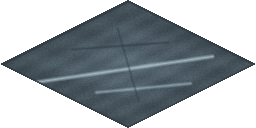
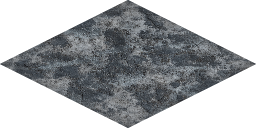
feat: repaint v4 environment tiles

diff --git a/test/v4-assets.test.ts b/test/v4-assets.test.ts
@@ -1,9 +1,20 @@
-import { existsSync, statSync } from 'node:fs';
+import { existsSync, readFileSync, statSync } from 'node:fs';
 import { describe, expect, it } from 'vitest';
 
 const REQUIRED_ASSETS = [
+  'art_source/v4/tiles/wilderness_source.png',
+  'art_source/v4/tiles/town_source.png',
+  'art_source/v4/tiles/desert_source.png',
+  'art_source/v4/tiles/hell_source.png',
+  'art_source/v4/tiles/snow_source.png',
+  'assets/tile/wilderness.png',
+  'assets/tile/town.png',
+  'assets/tile/desert.png',
   'assets/tile/hell.png',
   'assets/tile/snow.png',
+  'public/assets/tile/wilderness.png',
+  'public/assets/tile/town.png',
+  'public/assets/tile/desert.png',
   'public/assets/tile/hell.png',
   'public/assets/tile/snow.png',
   'assets/ui/title-bg.png',
@@ -205,6 +216,17 @@ describe('V4 visual asset pack', () => {
     for (const file of REQUIRED_ASSETS) {
       expect(existsSync(file), `${file} should exist`).toBe(true);
       expect(statSync(file).size, `${file} should not be empty`).toBeGreaterThan(512);
+    }
+  });
+
+  it('keeps painted isometric tiles mirrored at the runtime and Pages paths', () => {
+    for (const name of ['wilderness', 'town', 'desert', 'hell', 'snow']) {
+      const dev = readFileSync(`assets/tile/${name}.png`);
+      const pages = readFileSync(`public/assets/tile/${name}.png`);
+      expect(dev.equals(pages), `${name} tile copies should be identical`).toBe(true);
+      expect(dev.readUInt32BE(16), `${name} tile width`).toBe(256);
+      expect(dev.readUInt32BE(20), `${name} tile height`).toBe(128);
+      expect(dev[25], `${name} tile should be RGBA`).toBe(6);
     }
   });
 });

diff --git a/src/game/ui/v4skin.ts b/src/game/ui/v4skin.ts
@@ -23,7 +23,7 @@ export function injectV4Skin(): void {
       linear-gradient(0deg, transparent 0 47px, #000 48px 49px, transparent 50px);
     mix-blend-mode:overlay;
   }
-  canvas { filter:saturate(.98) contrast(1.08) brightness(.9); }
+  canvas { filter:saturate(.98) contrast(1.06) brightness(1); }
   #title {
     background:
       linear-gradient(90deg,#020202e8 0%,#0008 22%,#0004 50%,#0008 78%,#020202e8 100%),

diff --git a/index.html b/index.html
@@ -1735,7 +1735,7 @@ fn mainFragment(
       linear-gradient(0deg, transparent 0 47px, #000 48px 49px, transparent 50px);
     mix-blend-mode:overlay;
   }
-  canvas { filter:saturate(.98) contrast(1.08) brightness(.9); }
+  canvas { filter:saturate(.98) contrast(1.06) brightness(1); }
   #title {
     background:
       linear-gradient(90deg,#020202e8 0%,#0008 22%,#0004 50%,#0008 78%,#020202e8 100%),

diff --git a/test/node-fs.d.ts b/test/node-fs.d.ts
@@ -1,4 +1,8 @@
 declare module 'node:fs' {
   export function existsSync(path: string): boolean;
+  export function readFileSync(path: string): Uint8Array & {
+    equals(other: Uint8Array): boolean;
+    readUInt32BE(offset: number): number;
+  };
   export function statSync(path: string): { size: number };
 }

diff --git a/docs/V4_VISUAL_QA.md b/docs/V4_VISUAL_QA.md
@@ -61,7 +61,7 @@ Known remaining art gaps:
 
 - `assets/v4-dark/` path is ready, but the first external override pack is not yet populated.
 - Title-screen Barbarian/Amazon/Sorceress class portraits now use full-body V4 dark fantasy PNGs instead of Q-style chibi art.
-- `tile/hell.png`, `tile/snow.png`, and `tile/desert.png` now resolve to generated V4 PNG tiles; they should later be replaced by final hand-painted-feeling tiles.
+- Wilderness, town, desert, hell, and snow now use painted 768x768 source textures projected into seamless 256x128 RGBA isometric tiles by `npm run assets:v4-tiles`.
 - All five act bosses now resolve to V4 transparent PNG boss art and keep distinct runtime subKinds; next upgrade is directional/attack animation.
 - Runtime player and camp NPC PNGs are larger than the old procedural markers, reducing the title-to-combat quality drop.
 - Rogue Encampment now has V4 campfire, exit gate, and blacksmith workstation props as low-risk scene anchors.
@@ -81,3 +81,13 @@ Known remaining art gaps:
 - Short landscape play now uses a compact bottom utility row and matching joystick dead zone.
 - Global `ui/panel.png` and `ui/btn_frame.png` now use darker black-iron V4 material art.
 - Character, NPC, and monster runtime art is single-frame PNG, not directional animation sheets.
+
+## 2026-07-11 Painted Environment QA Record
+
+- Full self-test: 44 files, 189 tests passed.
+- Asset gate: all five painted source textures and both runtime copies are required; output dimensions, RGBA format, and copy identity are tested.
+- Desktop 1280x720: title and game entered successfully; town ground material and character silhouettes remained readable.
+- iPhone portrait 390x844: no page overflow; HUD and objective panel remained inside the viewport.
+- iPhone landscape 844x390: inventory and skill tree filled the viewport without trapping the player; both close controls remained reachable and worked.
+- Browser warnings/errors: none.
+- Online GitHub Pages verification: pending this pass's push.

diff --git a/docs/V4_DARK_VISUAL_REBUILD.md b/docs/V4_DARK_VISUAL_REBUILD.md
@@ -53,11 +53,13 @@ Required key families:
 - Upgraded icon HTML to carry V4 classes and semantic icon ids for batch styling.
 - Connected camp NPC PNGs through `buildNpcSpriteWithArt`, replacing procedural NPCs whenever real art exists.
 - Removed the visible "Q版" positioning from the title footer.
+- Replaced all five environment tiles with painted source textures and a reproducible isometric projection pipeline.
+- Removed the global canvas brightness penalty after real-device QA showed it crushed character and NPC midtones.
 
 ## Next Art Production Queue
 
-1. Replace UI panel PNGs with darker metal/leather source art and verify every modal in portrait/landscape.
-2. Repaint `tile/hell.png`, `tile/snow.png`, and `tile/desert.png` from generated placeholders into final hand-painted-feeling ground packs.
-3. Add directional/attack animation sheets for player, common monsters, and act bosses; current PNGs are single-frame runtime art.
-4. Create separate class portrait variants for title/class select and in-game actor scale.
+1. Add directional/attack animation sheets for player, common monsters, and act bosses; current PNGs are single-frame runtime art.
+2. Create separate class portrait variants for title/class select and in-game actor scale.
+3. Complete authored combat FX, item/service icons, status icons, and rarity frames from the asset manifest.
+4. Replace remaining legacy instructional copy and emoji fallback marks inside operational panels.
 5. Skill icon replacement is complete for the current data set: all 67 current class skill definitions have bespoke PNG coverage. New future skills should ship with PNG icons and asset-regression coverage in the same pass.

diff --git a/docs/V4_RELEASE_NOTES.md b/docs/V4_RELEASE_NOTES.md
@@ -212,3 +212,15 @@ This pass closes the remaining current skill-icon coverage gap:
 - Routed every current class skill id in `amazon.ts`, `barbarianTree.ts`, and `sorceress.ts` through the bespoke PNG icon layer.
 - Added `npm run assets:v4-remaining-skill-icons` so the final skill icon batch can be regenerated without external copyrighted source art.
 - Expanded the V4 asset regression test so all current skill PNGs must exist in both dev and GitHub Pages asset locations.
+
+## Environment Art Pass - Painted Ground Set
+
+This pass replaces the five procedural-looking ground tiles with an authored source-art pipeline:
+
+- Added 768x768 painted source textures for wilderness, town, desert, hell, and snow under `art_source/v4/tiles/`.
+- Rebuilt `npm run assets:v4-tiles` to decode the source PNGs, project them into 2:1 isometric diamonds, feather opposite edges for repeatability, apply a shared combat-readable grade, and write identical dev/Pages copies.
+- Removed straight crossing crack lines and flat color-noise treatment that made the previous tiles read like generated placeholders.
+- Lifted runtime canvas midtones so dark-fantasy atmosphere comes from material, local light, and palette instead of a global near-black exposure penalty.
+- Added regression checks for all five source textures, all ten runtime copies, exact 256x128 RGBA output, and byte-identical dev/Pages assets.
+
+Visual QA passed at 1280x720, 390x844, and 844x390. Inventory and skill-tree panels opened and closed successfully in landscape, page overflow remained zero, and the browser console stayed clean.

diff --git a/art_source/v4/tiles/README.md b/art_source/v4/tiles/README.md
@@ -1,0 +1,17 @@
+# V4 Painted Tile Sources
+
+These five 768x768 source textures were created for Ironband with the built-in OpenAI image generation tool on 2026-07-11. They are original ground-material studies and do not use extracted or copied game assets.
+
+Shared production prompt:
+
+> Production-quality hand-painted realistic ground texture for an original premium dark-fantasy isometric action RPG. Perfectly top-down orthographic square, diffuse ambient light, physically believable material breakup, seamless opposing edges, no perspective, border, vignette, focal prop, text, watermark, UI, runes, weapons, footprints, straight grid, crossing scratches, checkerboard repetition, or copyrighted franchise symbols. Intended for downsampling and projection into a 2:1 isometric diamond.
+
+Biome variants:
+
+- `wilderness_source.png`: damp olive earth, slate, roots, moss, gravel, natural erosion.
+- `town_source.png`: worn limestone and fieldstone in packed earth, soot, mortar, iron-rich stains.
+- `desert_source.png`: ochre sand, cracked clay, sandstone fragments, gravel, wind erosion.
+- `hell_source.png`: scorched basalt, ash, short organic ember fissures, cooled lava crust.
+- `snow_source.png`: dirty compacted snow, fractured blue-gray slate, frost, grit, ice veins.
+
+Do not edit the generated `assets/tile/*.png` or `public/assets/tile/*.png` directly. Replace a source texture and run `npm run assets:v4-tiles` so projection, grading, alpha, and mirrored output paths remain consistent.

diff --git a/docs/V4_ASSET_MANIFEST.md b/docs/V4_ASSET_MANIFEST.md
@@ -181,6 +181,8 @@ Boss 命名使用原创描述名，不沿用任何知名暗黑系列 Boss 名。
 
 路径：`public/assets/tile/`、`public/assets/prop/`
 
+V4 2026-07-11 已建立 `art_source/v4/tiles/<name>_source.png` 母材层，并由 `npm run assets:v4-tiles` 统一生成 256x128 RGBA 等距地砖。运行时与 GitHub Pages 两份资源必须字节一致；禁止再直接手改输出 PNG。
+
 ### 地块
 
 | 优先级 | key | 文件 | 规格 | 用途 | 验收重点 |
